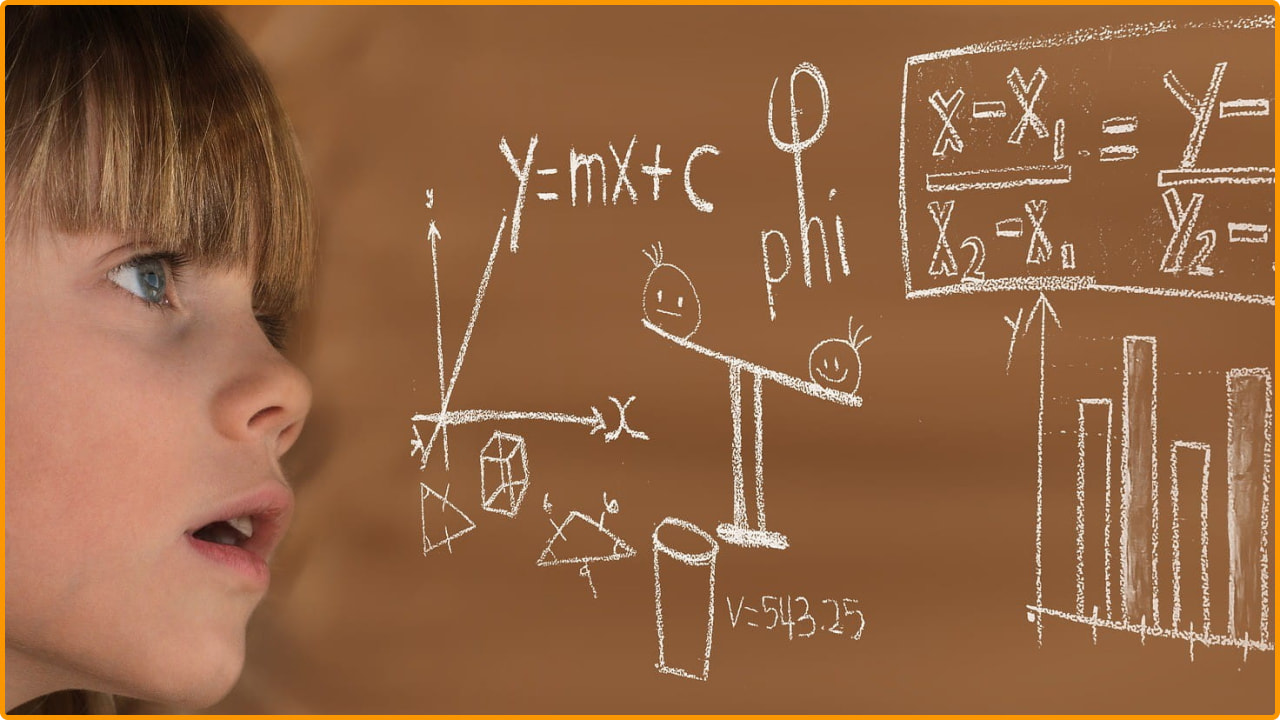
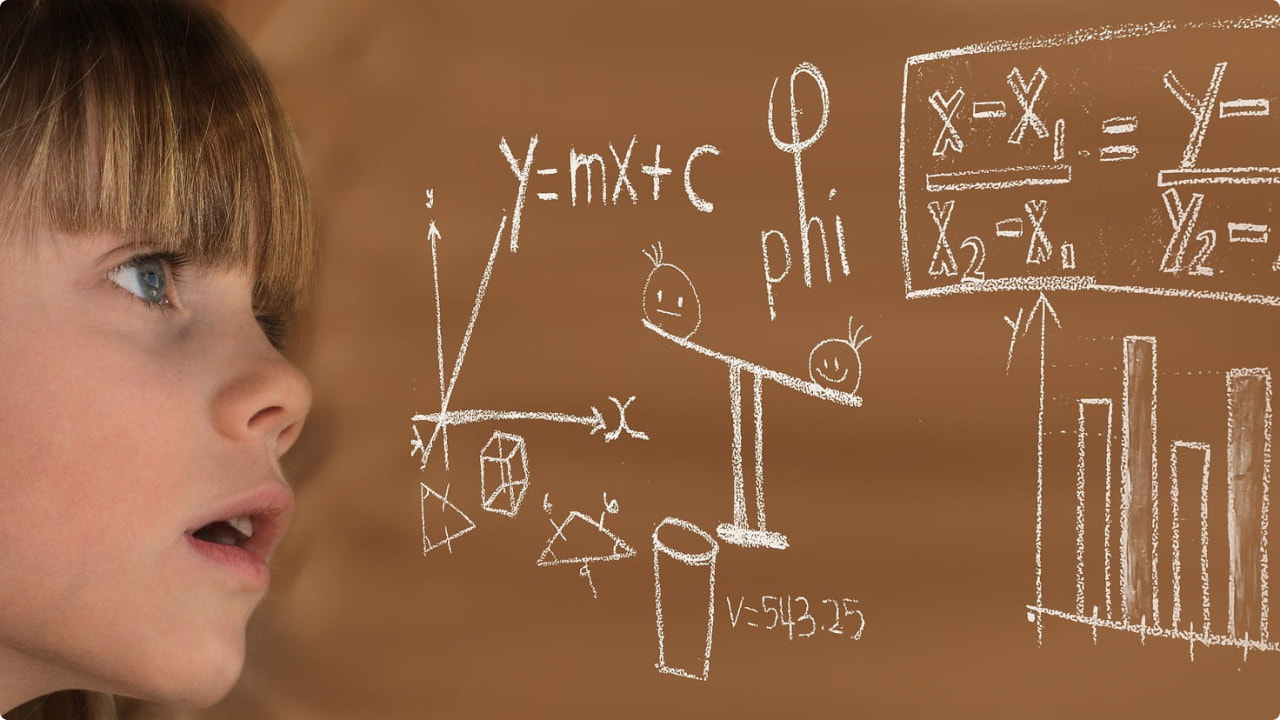
update

Changed region(s): [[0.0, 0.0, 1.0, 1.0]]

diff --git a/index.html b/index.html
@@ -41,7 +41,7 @@
                 <picture class="hexagon-figure">
                     <source media="(min-width:700px)"
                     srcset="/images/hexagon-banner-big-finall-v.2.jpg">
-                    <img class="hexagon-img" src="images/hexagon-banner-small-v.2.jpg" alt="a collage of hexagonshaped pictures of kids exploring different activities in the musem">
+                    <img class="hexagon-img-index" src="images/hexagon-banner-small-v.2.jpg" alt="a collage of hexagonshaped pictures of kids exploring different activities in the musem">
                 </picture>
                 <section class="section-column">
                     <h1>Explore with us!</h1>

diff --git a/events.html b/events.html
@@ -41,7 +41,7 @@
             <div class="content">
                 <picture class="hexagon-figure">
                     <source media="(min-width:700px)"
-                    srcset="/images/img_events_mob.jpg">
+                    srcset="/images/img_events_deskt.jpg">
                     <img class="hexagon-img" src="images/img_events_deskt.jpg" alt="View of the grand hall inside the museum, the hall is in a gothic style with high arched ceiling and skylight">
                 </picture>
                             <section>

diff --git a/css/styles.css b/css/styles.css
@@ -99,7 +99,15 @@ header {
 
 .hexagon-img {
     max-width: 95vw;
-    max-height: 400px;
+    display: flex;
+    justify-content: center;
+    border: orange solid 3px;
+    border-radius: 10px;
+}
+
+.hexagon-img-index {
+    max-width: 95vw;
+    max-height: 650px;
     display: flex;
     justify-content: center;
 }
@@ -108,6 +116,7 @@ header {
     display: flex;
     justify-content: center;
     padding-top: 0.5rem;
+}
 } 
 
 /* ---- footer ---- */
